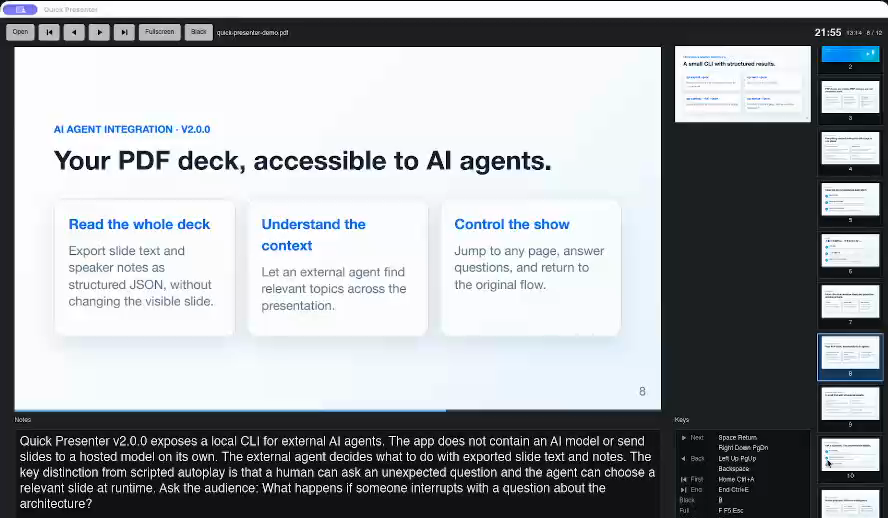
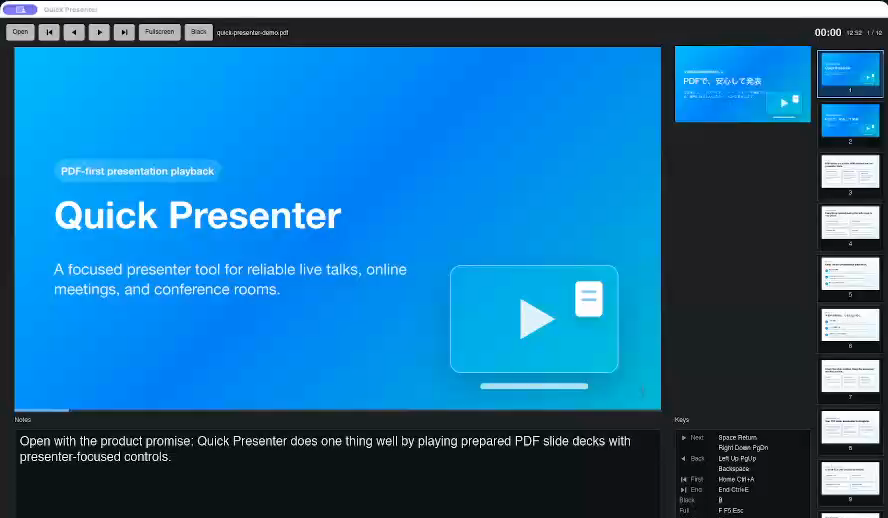
Show the first slide in the v2 presenter screenshot

diff --git a/website/README.md b/website/README.md
@@ -219,8 +219,9 @@ blocked by its URL policy. Do not treat source-level checks as visual QA.
 `src/assets/presenter-window-v2-macos.png` replaces the older presenter UI in
 both homepage locales and the README's macOS presenter example. It is an
 889×519 crop of the actual v2.0.0 presenter window at 1 second in the original
-2026-10-12 13-14-33 recording used for the interactive demo. It includes the
+2026-10-12 12-52-19 interactive demo recording, showing page 1 of the deck.
+It includes the
 first/previous/next/last icon controls and the 12-slide deck's speaker notes.
 The screenshot retains the source recording's visible window area and pixel
 geometry; no UI was recreated. The original recording's SHA-256 is
[2 lines of base64/hex data omitted]
